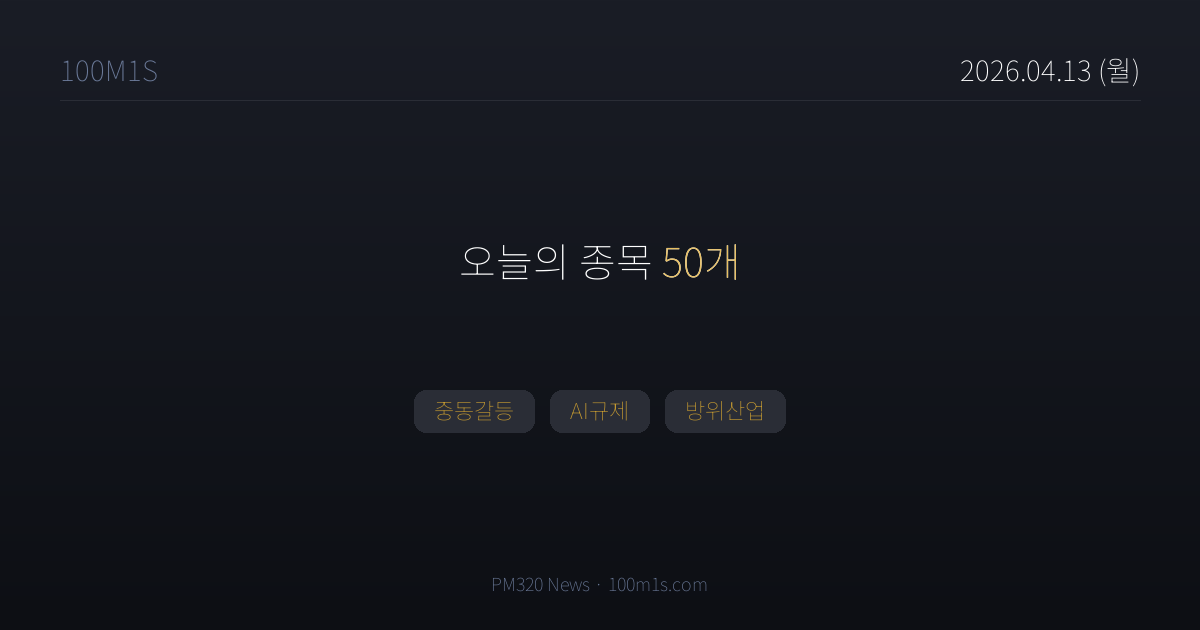
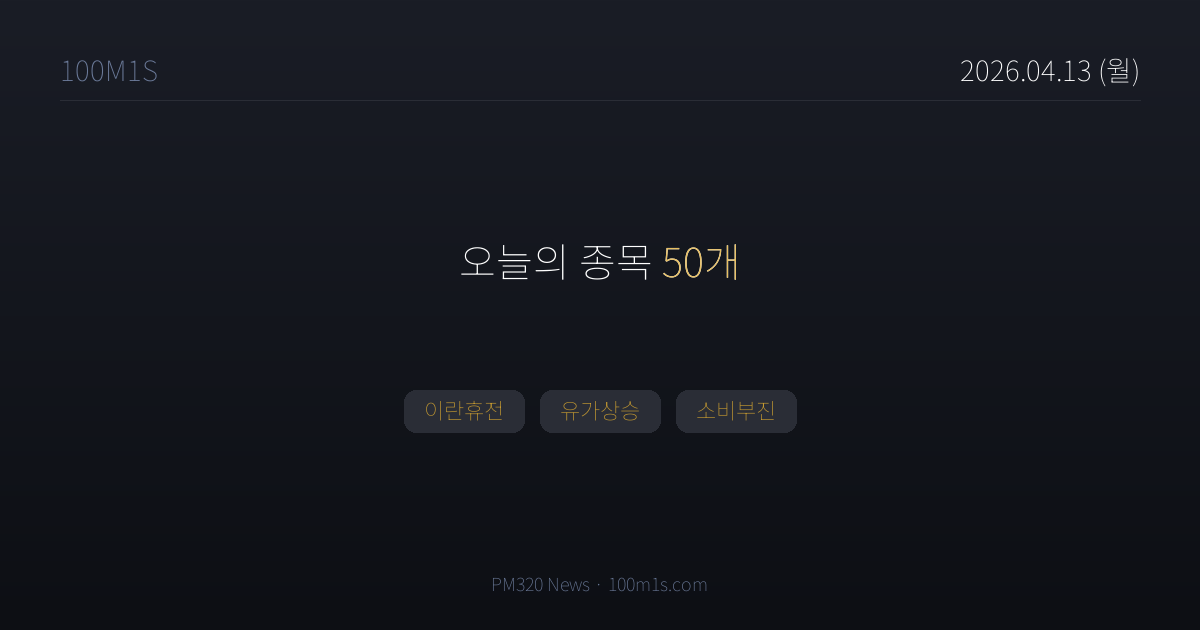
chore(news): 2026-04-13T04:25 pipeline

Changed region(s): [[0.3392, 0.6032, 0.6783, 0.6937]]

diff --git a/news/2026-04-13.html b/news/2026-04-13.html
@@ -4,7 +4,7 @@
 <meta charset="UTF-8">
 <title>4월 13일 (월) 뉴스 — 100M1S</title>
 <meta property="og:title" content="4월 13일 (월) · 종목 50개">
-<meta property="og:description" content="중동갈등, AI규제, 방위산업">
+<meta property="og:description" content="이란휴전, 유가상승, 소비부진">
 <meta property="og:image" content="https://100m1s.com/og/2026-04-13.png">
 <meta property="og:image:width" content="1200">
 <meta property="og:image:height" content="630">
